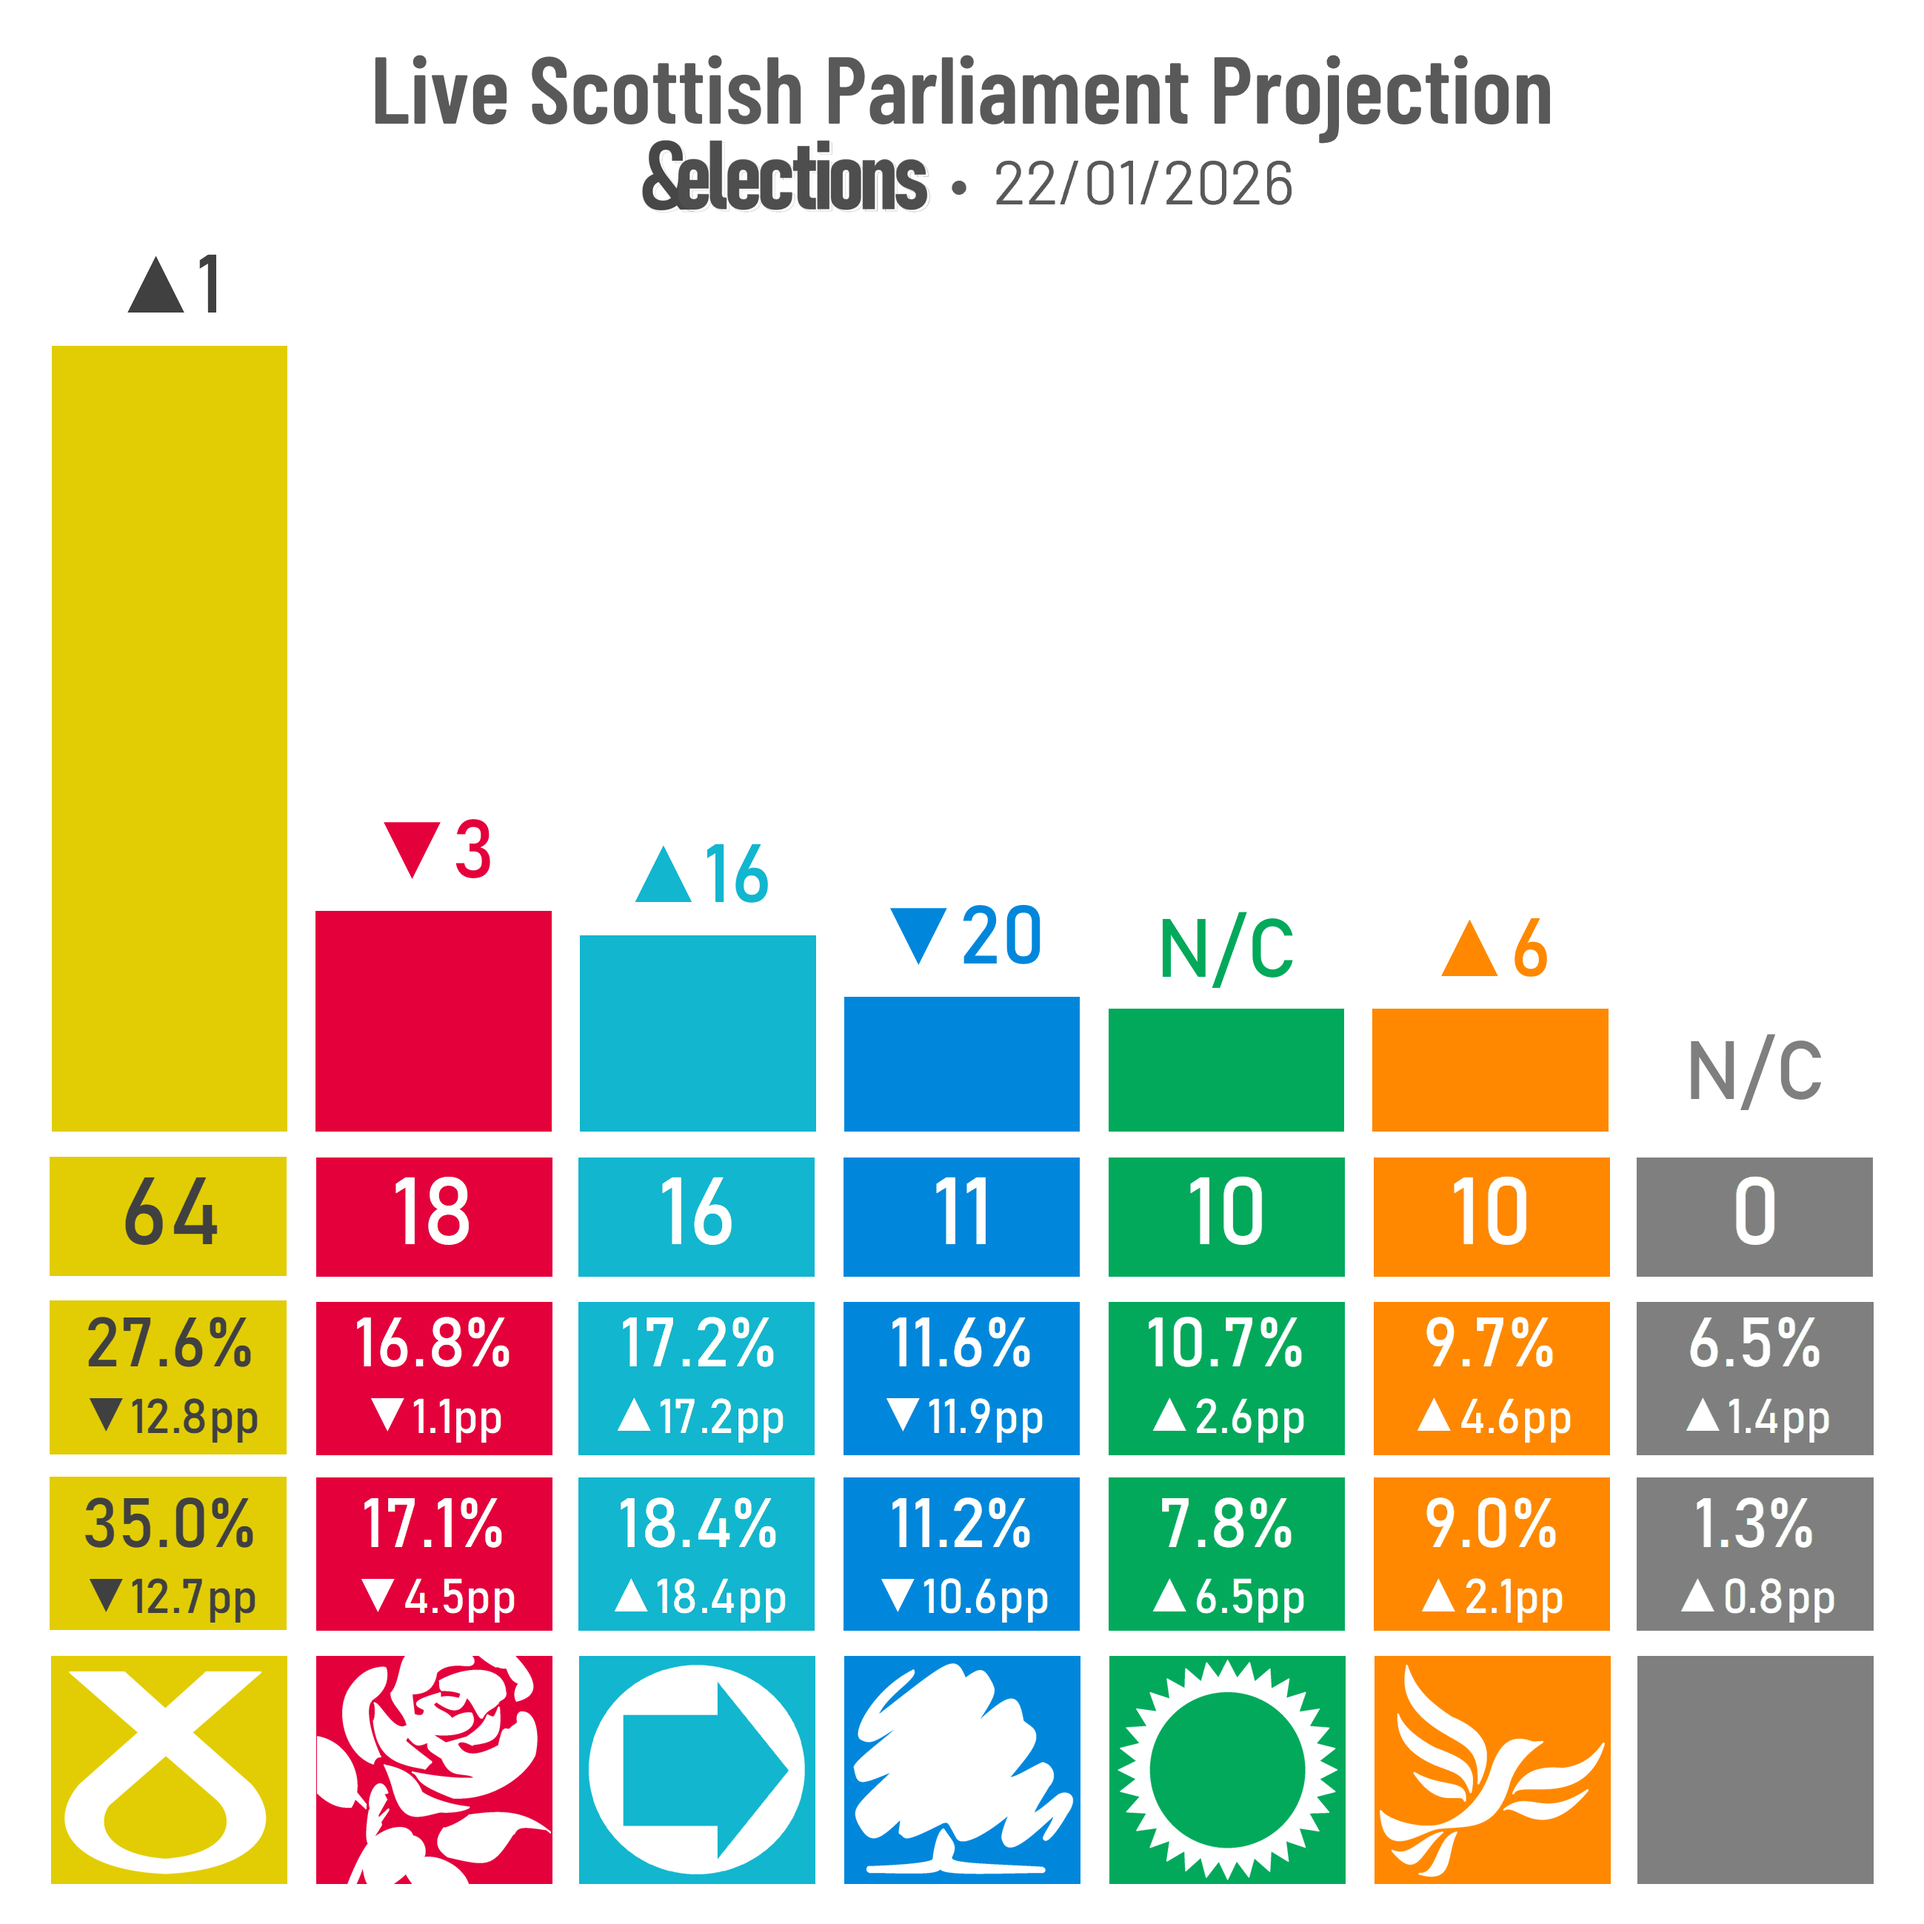
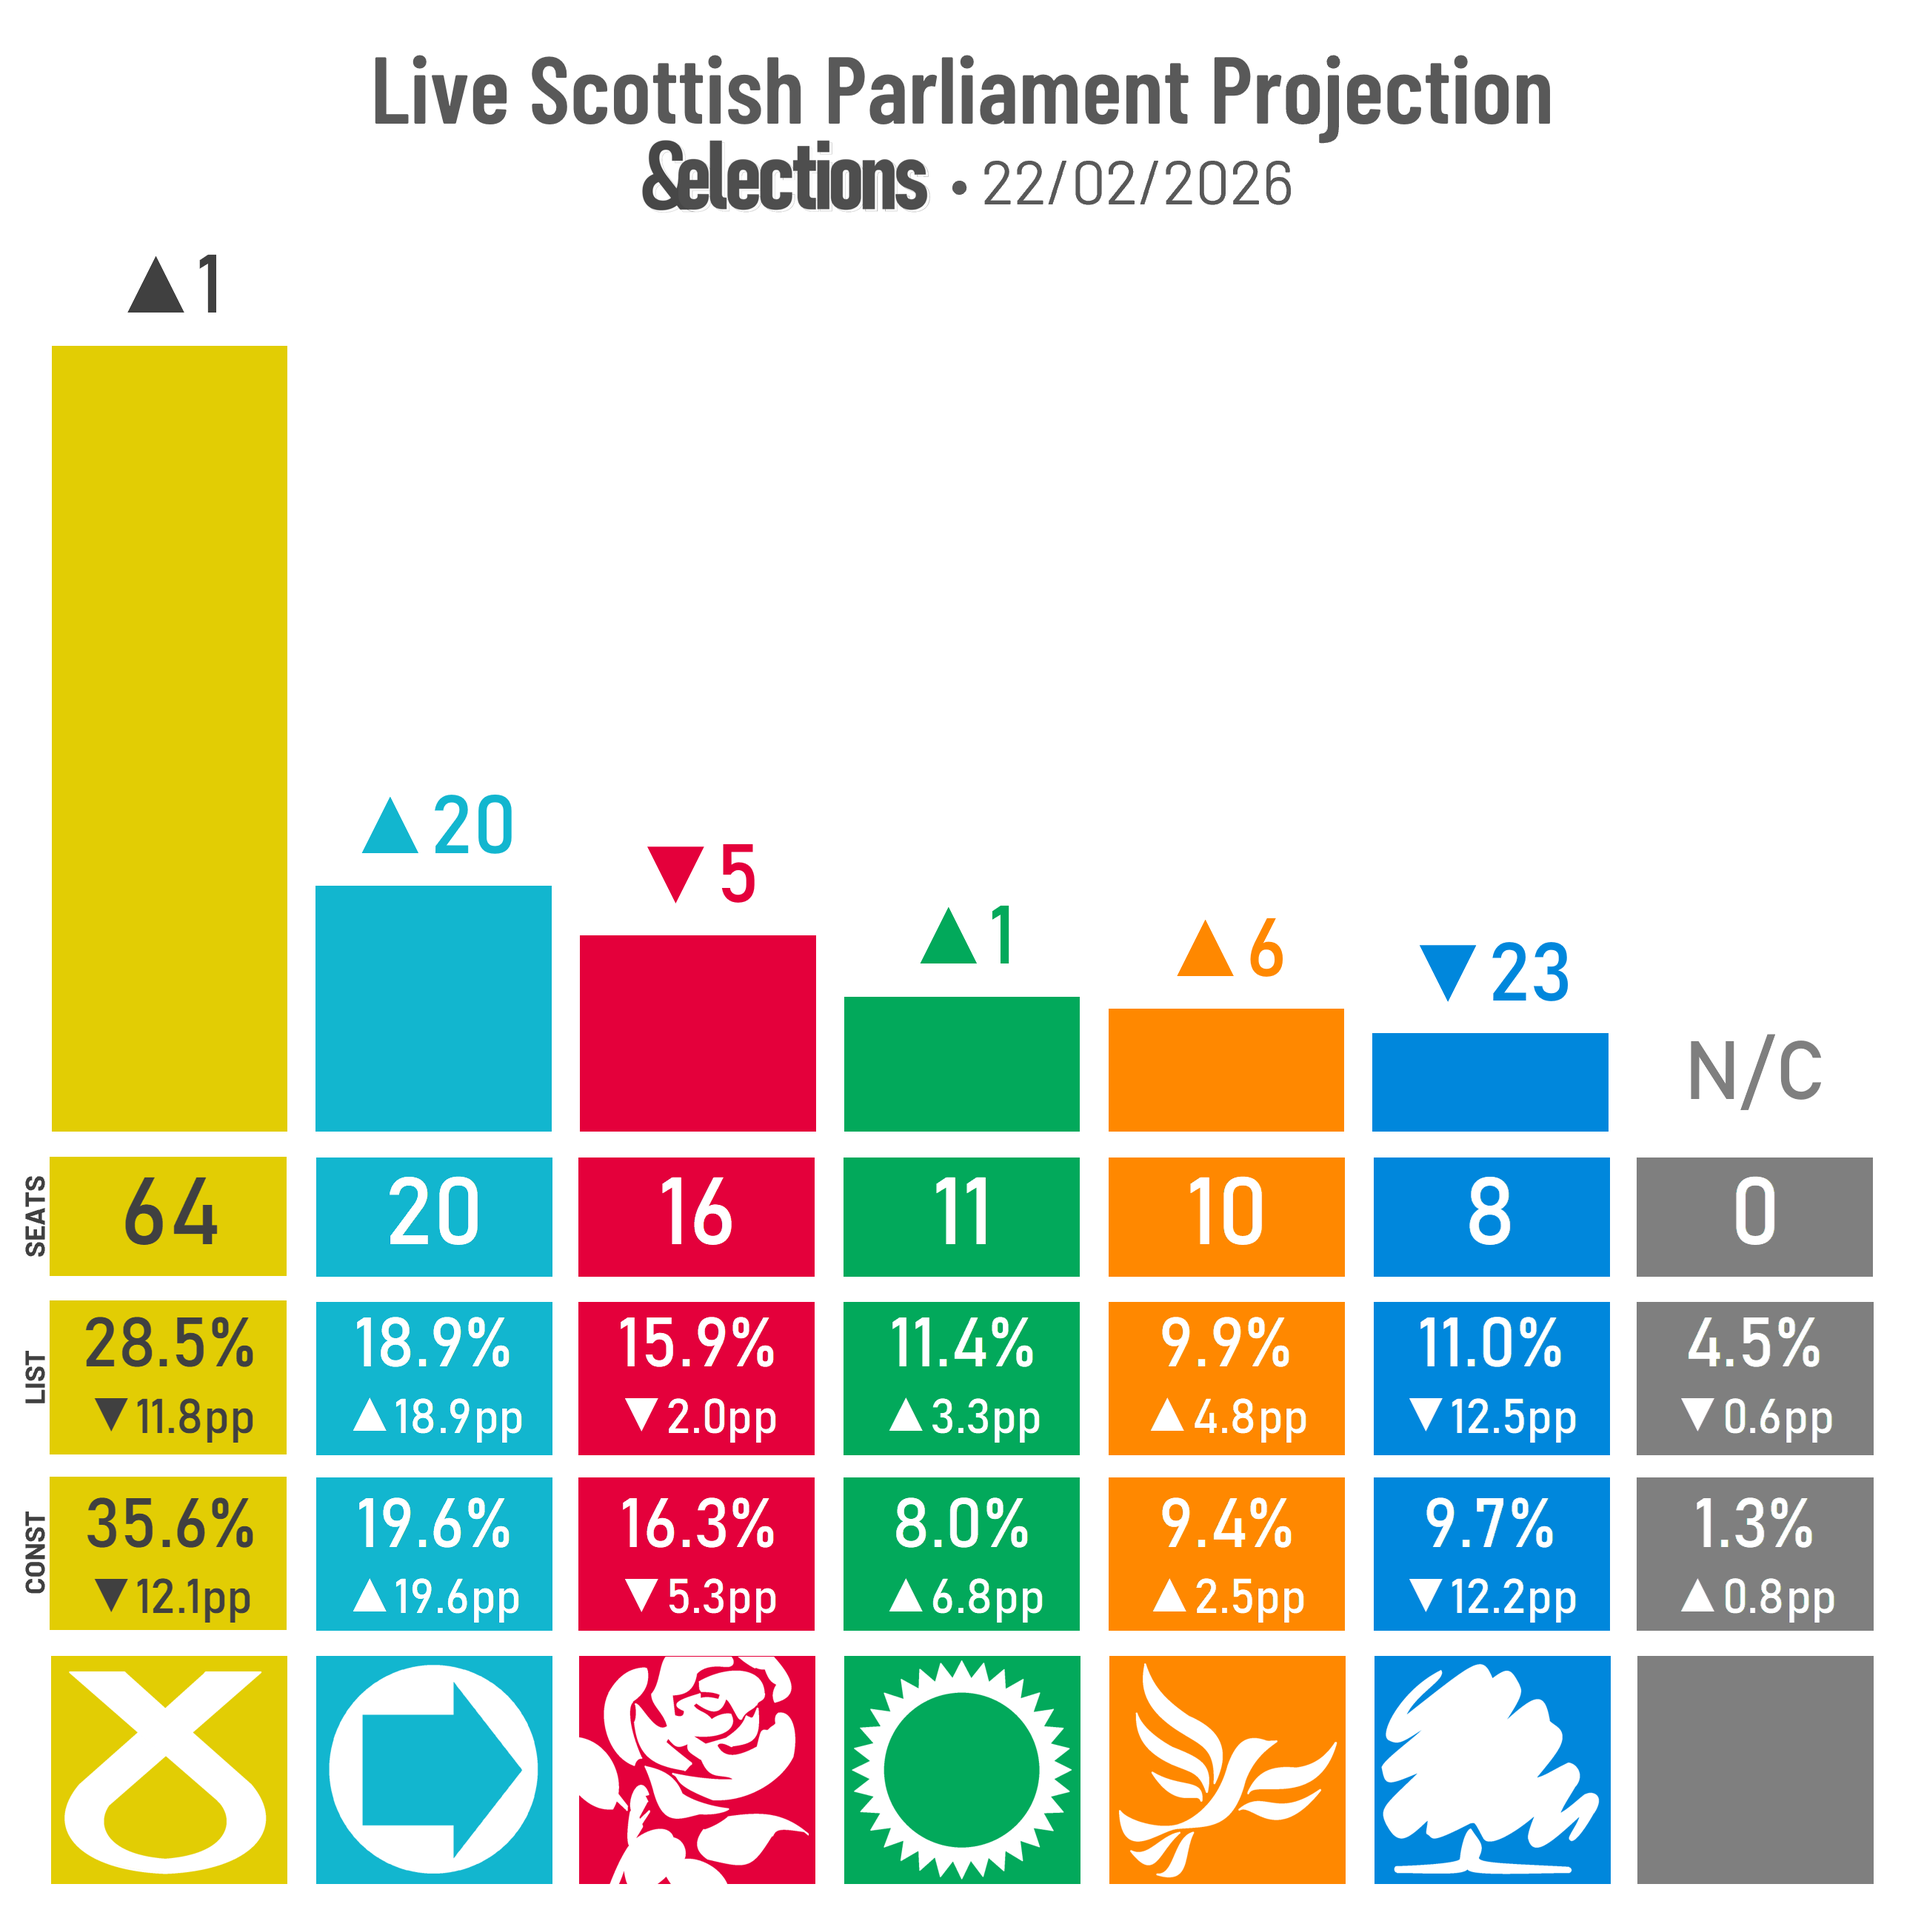
22/02/26 Holyrood Projection
- Added image
- Added blog post.

diff --git a/index.html b/index.html
@@ -262,6 +262,10 @@
                 </div>
                 <div class="datacontainer" id="data-blog">
                     <div class="blogtitles-container">
+                        <a href="https://andelections.substack.com/p/220226-holyrood-projection-as-reform" title="Open article in new tab" target="_blank" rel="noopener noreferrer">
+                            <h2>22/02/26 Holyrood Projection: As Reform Replace the Tories, Was Sarwar's Gamble Worth It?</h2>
+                            <p>22 Feb 2026 • Reform are forecast to form the official opposition in Scotland, but as Labour trundle along, was Sarwar's reproach of Starmer worth it?</p>
+                        </a>
                         <a href="https://andelections.substack.com/p/050226-uk-projection-januarys-tumult" title="Open article in new tab" target="_blank" rel="noopener noreferrer">
                             <h2>05/02/26 UK Projection: January's Tumult Yields No Change</h2>
                             <p>05 Feb 2026 • There is little change from &Elections' 08 Jan projection, but what could the factors at play in the upcoming by-election be?</p>
